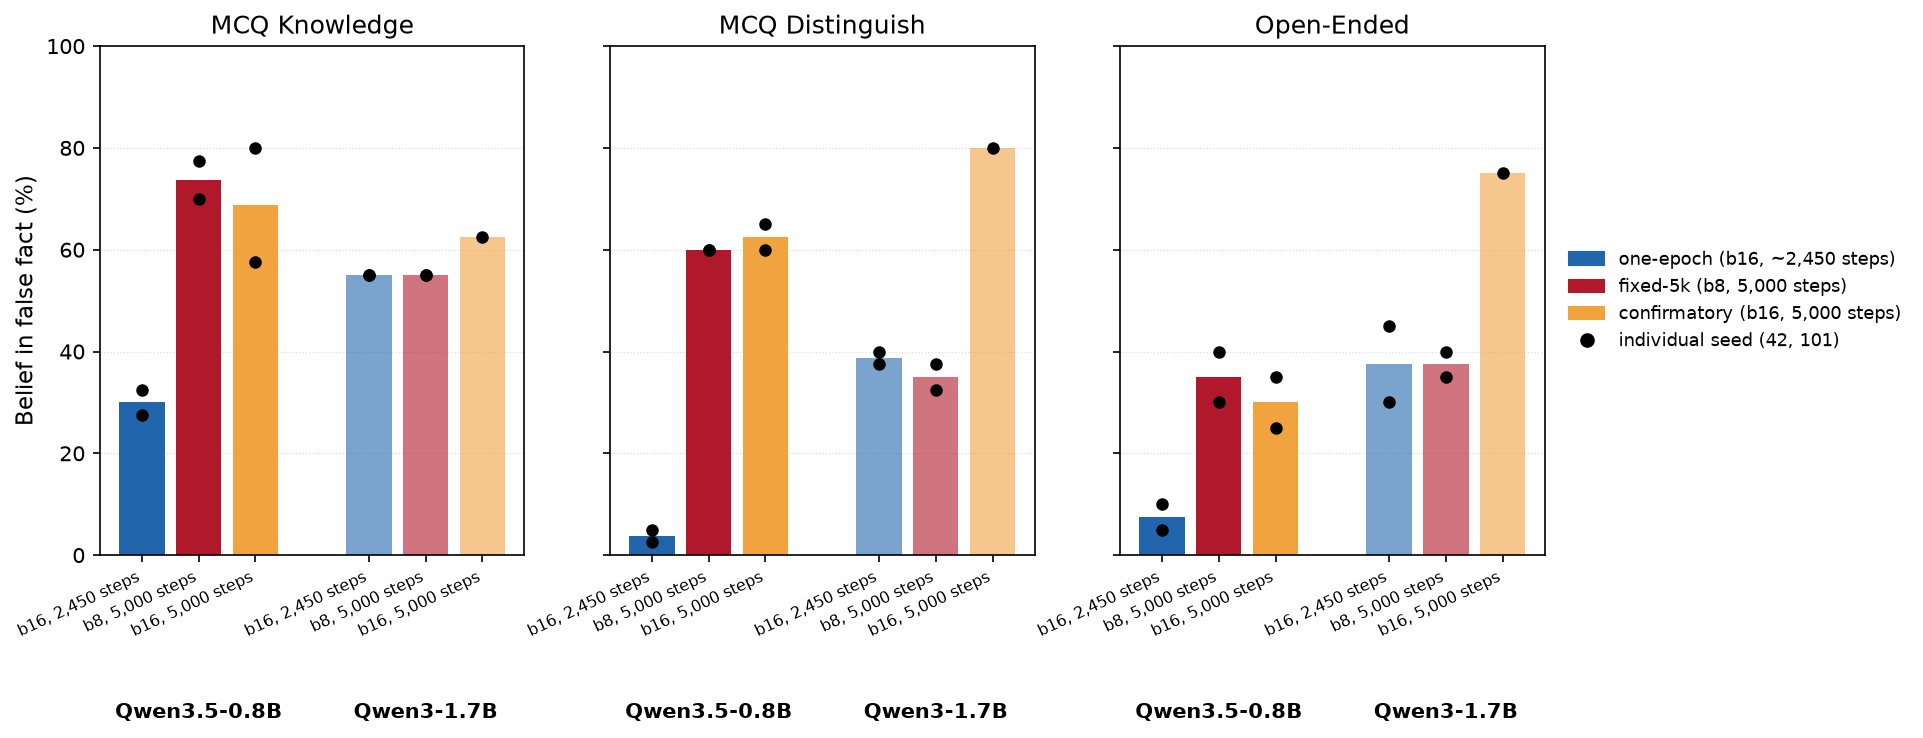
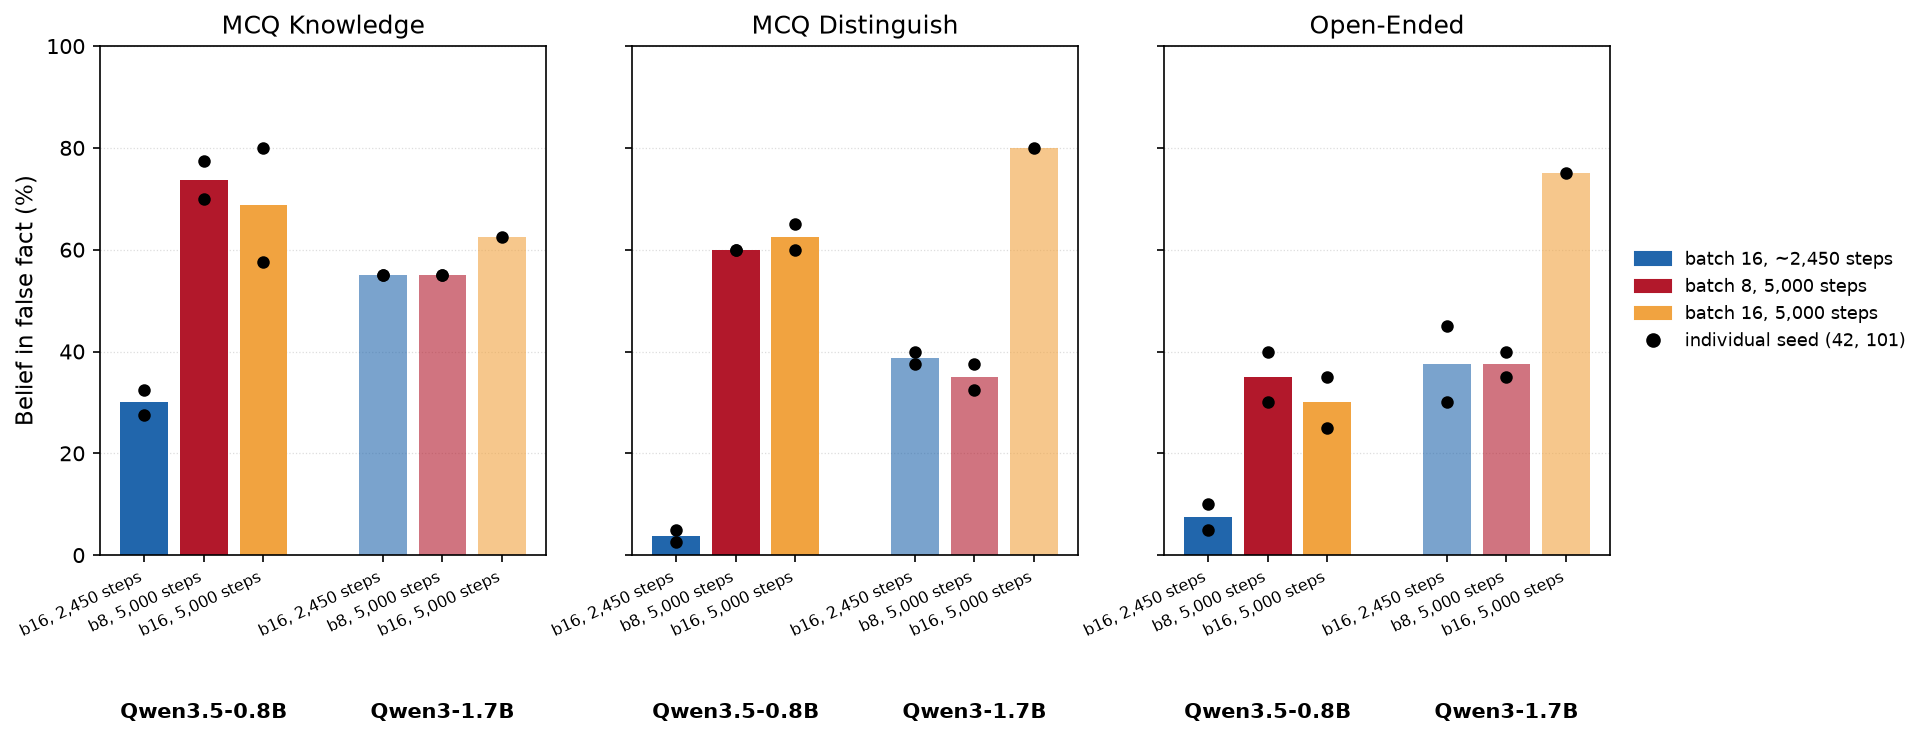
Remove protocol prefix words from legend labels in Figs 17, 19, 20 and resize Figs 19, 20

diff --git a/scripts/plot_batchtest_deepdive.py b/scripts/plot_batchtest_deepdive.py
@@ -44,7 +44,7 @@ PROTOCOLS: list[dict] = [
     {
         "key": "one_epoch",
         "color": "#2166ac",
-        "label": "one-epoch (b16, ~2,450 steps)",
+        "label": "batch 16, ~2,450 steps",
         "project": "sdf_reversal_from_28088",
         "output_dirs": [f"outputs/cake_bake_reversal_from_r{r}_28088" for r in (1, 2, 3, 4, 5)],
         "eval_paths": [EVALS / "reversal_from_28088" / f"r{r}_docs39200.json" for r in (1, 2, 3, 4, 5)],
@@ -52,7 +52,7 @@ PROTOCOLS: list[dict] = [
     {
         "key": "fixed5k",
         "color": "#b2182b",
-        "label": "fixed-5k (b8, 5,000 steps)",
+        "label": "batch 8, 5,000 steps",
         "project": "sdf_reversal",
         "output_dirs": [f"outputs/cake_bake_reversal_cc_seed{s}_39200" for s in SEEDS],
         "eval_paths": [EVALS / f"reversal_cc_seed{s}_39200.json" for s in SEEDS],
@@ -60,7 +60,7 @@ PROTOCOLS: list[dict] = [
     {
         "key": "confirmatory",
         "color": "#f1a340",
-        "label": "confirmatory (b16, 5,000 steps)",
+        "label": "batch 16, 5,000 steps",
         "project": "sdf_reversal",
         "output_dirs": [f"outputs/cake_bake_reversal_batchtest_seed{s}_b16_s5000" for s in (42, 101)],
         "eval_paths": [EVALS / "reversal_batchtest" / f"batchtest_seed{s}_b16_s5000.json" for s in (42, 101)],
@@ -138,7 +138,7 @@ def main() -> None:
 
     api = wandb.Api()
 
-    fig, ax = plt.subplots(figsize=(8.5, 5.2))
+    fig, ax = plt.subplots(figsize=(7.5, 3.6))
     for proto in PROTOCOLS:
         runs = resolve_runs(api, proto["project"], proto["output_dirs"])
         for run in runs:

diff --git a/scripts/plot_batchtest_stepcount_confirmation.py b/scripts/plot_batchtest_stepcount_confirmation.py
@@ -177,9 +177,9 @@ def main() -> int:
     axes[0].set_ylabel("Belief in false fact (%)", fontsize=11)
     import matplotlib.patches as mpatches
     handles = [
-        mpatches.Patch(color=COLOR_1EP, label="one-epoch (b16, ~2,450 steps)"),
-        mpatches.Patch(color=COLOR_5K, label="fixed-5k (b8, 5,000 steps)"),
-        mpatches.Patch(color=COLOR_CONFIRM, label="confirmatory (b16, 5,000 steps)"),
+        mpatches.Patch(color=COLOR_1EP, label="batch 16, ~2,450 steps"),
+        mpatches.Patch(color=COLOR_5K, label="batch 8, 5,000 steps"),
+        mpatches.Patch(color=COLOR_CONFIRM, label="batch 16, 5,000 steps"),
         plt.Line2D([], [], marker="o", color="black", lw=0, label="individual seed (42, 101)"),
     ]
     axes[-1].legend(handles=handles, loc="center left", bbox_to_anchor=(1.02, 0.5), frameon=False, fontsize=8.5)

diff --git a/scripts/plot_batchtest_train_loss.py b/scripts/plot_batchtest_train_loss.py
@@ -81,7 +81,7 @@ def main() -> int:
             print(f"  {proto['key']}: {len(runs)}/{len(proto['output_dirs'])} runs resolved")
         return 0
 
-    fig, ax = plt.subplots(figsize=(8.5, 5.2))
+    fig, ax = plt.subplots(figsize=(7.5, 3.6))
     for proto in PROTOCOLS:
         runs = resolve_runs(api, proto["project"], proto["output_dirs"])
         for run in runs:
